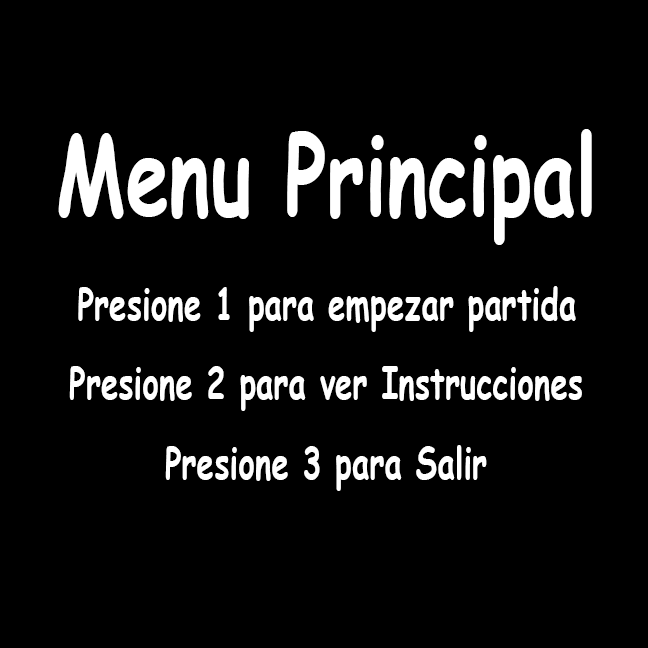
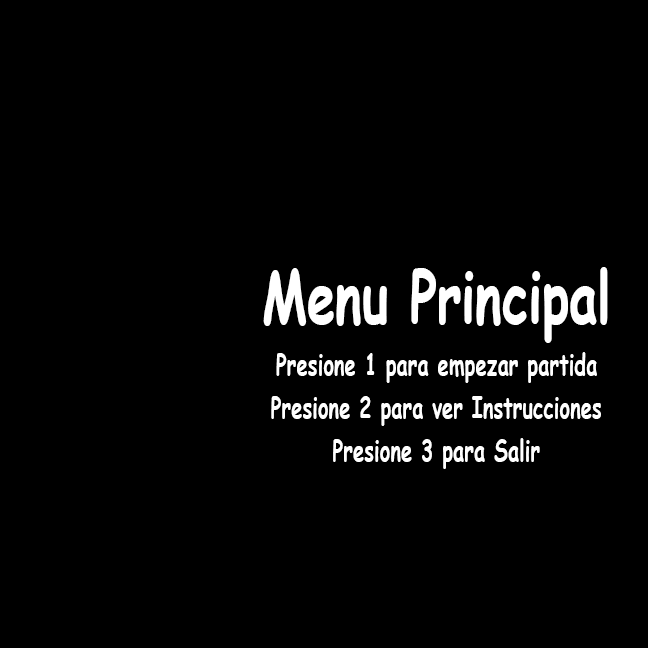
Tarea 6: Actualizacion

diff --git a/core/src/lab/dvchm/endlessrun/Explosion.java b/core/src/lab/dvchm/endlessrun/Explosion.java
@@ -2,10 +2,13 @@ package lab.dvchm.endlessrun;
 
 import java.util.ArrayList;
 
+import com.badlogic.gdx.Gdx;
+import com.badlogic.gdx.Input.Keys;
 import com.badlogic.gdx.graphics.Texture;
 import com.badlogic.gdx.scenes.scene2d.ui.Image;
 
 public class Explosion extends PersonajeAnimado {
+	
 	
 	Explosion ()
 	{
@@ -24,6 +27,35 @@ public class Explosion extends PersonajeAnimado {
 		images.add(new Image(new Texture("perder05.png")));
 		return images;
 		
+	}
+	
+	@Override
+	public void act(float delta) {
+		// TODO Auto-generated method stub
+		super.act(delta);
+		
+		this.setX(-40);
+		this.setY(50);
+		
+		if(Gdx.input.isKeyPressed(Keys.NUM_1))
+		{
+			this.setVisible(false);
+		}
+		// Opcion 1
+		else
+		if(Gdx.input.isKeyPressed(Keys.NUM_2))
+		{
+			this.setVisible(false);
+		}
+		else
+		if(Gdx.input.isKeyPressed(Keys.ESCAPE))
+		{
+			this.setVisible(true);
+		}
+		
+		if(Gdx.input.isKeyPressed(Keys.P)){
+			this.setVisible(false);
+			}
 	}
 	
 }

diff --git a/core/src/lab/dvchm/endlessrun/ClasePrincipal.java b/core/src/lab/dvchm/endlessrun/ClasePrincipal.java
@@ -13,7 +13,6 @@ public class ClasePrincipal extends ApplicationAdapter implements InputProcessor
 	Personaje jugador;
 	Menu m;
 	
-	
 	@Override
 	public void create () {		
 		stage=new Stage();
@@ -27,6 +26,7 @@ public class ClasePrincipal extends ApplicationAdapter implements InputProcessor
 		stage.addActor(new Plataforma1());
 		stage.addActor(new Plataforma2());
 		menu.addActor(new Menu());
+		menu.addActor(new Explosion());
 	//	stage.addActor(new Explosion());	
 	}
 

diff --git a/core/src/lab/dvchm/endlessrun/Menu.java b/core/src/lab/dvchm/endlessrun/Menu.java
@@ -78,7 +78,6 @@ public class Menu extends PersonajeAnimado{
 	public boolean iniciarJuego()
 	{
 		
-		
 		if(Gdx.input.isKeyPressed(Keys.NUM_1))
 			cont++;
 		
